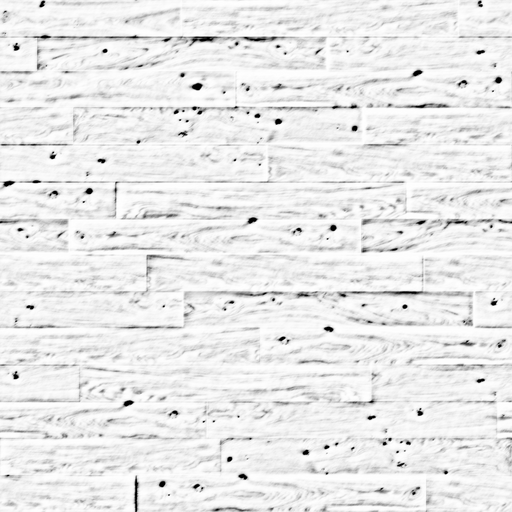
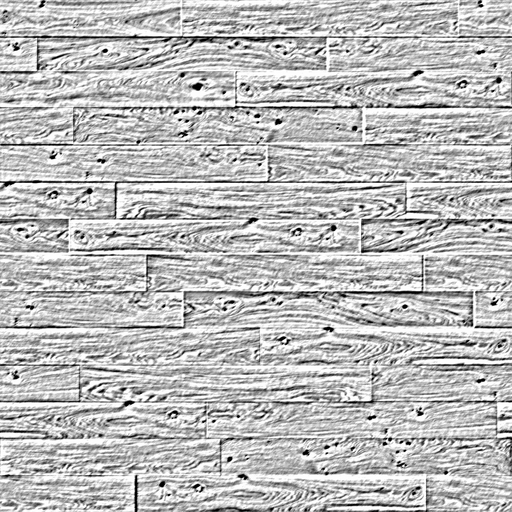
Working fragment lighting shader

diff --git a/engine/Component/Model.cpp b/engine/Component/Model.cpp
@@ -9,9 +9,6 @@
 //https://www.opengl.org/discussion_boards/showthread.php/163092-Passing-Multiple-Textures-from-OpenGL-to-GLSL-shader
 //https://en.wikibooks.org/wiki/OpenGL_Programming/Advanced/GLSL
 
-
-#define BUFFER_OFFSET(bytes) ((GLubyte*)NULL + (bytes))
-
 Model::Model(const std::string& meshSrc, const std::string& materialSrc, const std::string& shader){
 	_meshSrc = meshSrc;
 	_materialSrc = materialSrc;
@@ -28,17 +25,6 @@ void Model::load(){
 
 	if (_materialSrc != "")
 		_material = AssetLoader::getAsset<MaterialData>(_materialSrc);
-
-	//if (_mesh){
-	//	glEnableVertexAttribArray(0); // Positions
-	//	glVertexAttribPointer(_mesh->vertexBuffer, _mesh->vertexSize, GL_FLOAT, GL_FALSE, sizeof(float)* 3, BUFFER_OFFSET(0));
-	//	
-	//	glEnableVertexAttribArray(1); // Normals
-	//	glVertexAttribPointer(_mesh->vertexBuffer, _mesh->vertexSize, GL_FLOAT, GL_FALSE, sizeof(float)* 3, BUFFER_OFFSET(_mesh->vertexSize));
-	//	
-	//	glEnableVertexAttribArray(2); // Texcoords
-	//	glVertexAttribPointer(_mesh->vertexBuffer, _mesh->vertexSize, GL_FLOAT, GL_FALSE, sizeof(float)* 2, BUFFER_OFFSET(_mesh->vertexSize + _mesh->normalSize));
-	//}
 }
 
 void Model::setMesh(const MeshData* mesh){
@@ -63,13 +49,12 @@ void Model::render(){
 
 	// Scale based on Transform
 	glScalef(-_transform->scale().x, -_transform->scale().y, _transform->scale().z);
-
+	
 
 
 	GLuint program = Renderer::shaderManager().currentProgram();
 	Renderer::shaderManager().useProgram(_shader);
-
-
+	
 	if (_material){
 		// Diffuse binding
 		GLint diffuse = glGetUniformLocation(program, "uniform_diffuse");
@@ -77,8 +62,6 @@ void Model::render(){
 		if (_material->diffuse && diffuse != -1){
 			glActiveTexture(GL_TEXTURE0);
 			glBindTexture(GL_TEXTURE_2D, _material->diffuse);
-			//glBindSampler(_material->diffuse, diffuse);
-
 			Renderer::shaderManager().uniform(diffuse, 0);
 		}
 
@@ -88,8 +71,6 @@ void Model::render(){
 		if (_material->specular && specular != -1){
 			glActiveTexture(GL_TEXTURE1);
 			glBindTexture(GL_TEXTURE_2D, _material->specular);
-			//glBindSampler(_material->specular, specular);
-
 			Renderer::shaderManager().uniform(specular, 1);
 		}
 
@@ -99,16 +80,27 @@ void Model::render(){
 		if (_material->normal && normal != -1){
 			glActiveTexture(GL_TEXTURE2);
 			glBindTexture(GL_TEXTURE_2D, _material->normal);
-			//glBindSampler(_material->normal, normal);
-
 			Renderer::shaderManager().uniform(normal, 2);
 		}
+
+
+		Entity* entity = EntityManager::getEntity("player");
+
+		if (entity){
+			glm::vec3 directional = glm::normalize(entity->getComponent<Transform>()->position() - _transform->position());
+			Renderer::shaderManager().attribute("in_direction", directional);
+		}
+
+
+		//GLint light = glGetAttribLocation(program, "in_light");
+		//
+		//if (light != -1){
+		//	Renderer::shaderManager().uniform(light, glm::vec3(0, 0, 0));
+		//}
 	}
 	else{
 		glBindTexture(GL_TEXTURE_2D, 0);
 	}
-
-	
 
 	bool switched = false;
 
@@ -116,31 +108,19 @@ void Model::render(){
 		switched = true;
 		glDisable(GL_LIGHTING);
 	}
-	
-
-	//if (_material && _shader != "main"){
-	//	GLint diffuse = glGetUniformLocation(Renderer::shaderManager().currentProgram(), "uniform_diffuse");
-	//
-	//	Renderer::shaderManager().uniform(diffuse, _material->diffuse);
-	//
-	//	//Renderer::shaderManager()._glSimpleErrorCheck();
-	//}
-
-	//if (_shader == "main")
-	//	Renderer::shaderManager().uniform(0, glm::vec3(1, 1, 1));
 
 	draw();
 
 	glPopMatrix();
 
-	//glActiveTexture(GL_TEXTURE0);
-	//glBindSampler(GL_TEXTURE_2D, 0);
-	//
-	//glActiveTexture(GL_TEXTURE1);
-	//glBindSampler(GL_TEXTURE_2D, 0);
-	//
-	//glActiveTexture(GL_TEXTURE2);
-	//glBindSampler(GL_TEXTURE_2D, 0);
+	glActiveTexture(GL_TEXTURE0);
+	glBindTexture(GL_TEXTURE_2D, 0);
+	
+	glActiveTexture(GL_TEXTURE1);
+	glBindTexture(GL_TEXTURE_2D, 0);
+	
+	glActiveTexture(GL_TEXTURE2);
+	glBindTexture(GL_TEXTURE_2D, 0);
 
 	Renderer::shaderManager().useProgram(program);
 
@@ -164,8 +144,7 @@ void Model::draw(){
 		// Loading texture data
 		glEnableClientState(GL_TEXTURE_COORD_ARRAY);
 		glTexCoordPointer(2, GL_FLOAT, 2 * sizeof(float), (void*)(_mesh->vertexSize + _mesh->normalSize));
-
-
+		
 
 		GLuint program = Renderer::shaderManager().currentProgram();
 
@@ -173,9 +152,6 @@ void Model::draw(){
 		GLint normal = glGetAttribLocation(program, "in_normal"); 
 		GLint texcoord = glGetAttribLocation(program, "in_texcoord");
 			
-
-
-
 		if (position != -1){
 			glVertexAttribPointer(position, 3, GL_FLOAT, GL_FALSE, 3 * sizeof(float), 0);
 			glEnableVertexAttribArray(position); // Positions

diff --git a/game/Playing.cpp b/game/Playing.cpp
@@ -10,6 +10,7 @@
 #include "Movement.hpp"
 #include "Velocity.hpp"
 #include "Input.hpp"
+#include "Spin.hpp"
 
 #include <glm\vec3.hpp>
 
@@ -18,11 +19,12 @@ void Playing::on(){
 	origin->addComponent(new Grid(512, 8, 8, Grid::AxisZ));
 	
 	Entity* model = EntityManager::createEntity("model");
-	model->getComponent<Transform>()->setPosition(glm::vec3(0, 0, 0));
+	model->getComponent<Transform>()->setPosition(glm::vec3(-512, 512, -2));
 	model->getComponent<Transform>()->setScale(glm::vec3(2, 2, 2));
 	model->getComponent<Transform>()->setRotation(glm::quat(glm::vec3(glm::radians(180.f), 0, glm::radians(180.f))));
 	model->addComponent(new Model("star.obj", "star.png", "main"));
 	model->getComponent<Model>()->setUnlit(true);
+	model->addComponent(new Spin(0.35f));
 	
 	Entity* player = EntityManager::createEntity("player");
 	player->getComponent<Transform>()->setPosition(glm::vec3(-256, 0, -1024));
@@ -42,8 +44,9 @@ void Playing::on(){
 	box0->getComponent<Transform>()->setPosition(glm::vec3(512, 512, -2));
 	box0->getComponent<Transform>()->setRotation(glm::quat(glm::vec3(0, 0, glm::radians(10.f))));
 	box0->addComponent(new Box2d(68, 68));
+	box0->addComponent(new Spin(0.5f));
 
-	player->getComponent<Transform>()->setParent(box0->getComponent<Transform>());
+	//player->getComponent<Transform>()->setParent(box0->getComponent<Transform>());
 
 	EntityManager::invokeAll(Entity::TRIGGER_LOAD);
 }

diff --git a/engine/Static/Module/ShaderManager.cpp b/engine/Static/Module/ShaderManager.cpp
@@ -183,8 +183,7 @@ GLint ShaderManager::_indexUniform(const std::string& name){
 	GLint value = glGetUniformLocation(_activeProgram, name.c_str());
 
 	if (value == -1){
-		_glSimpleErrorCheck();
-		error_out(("No such uniform called " + name + ".\n").c_str());
+		message_out(("Uniform " + name + " == -1.\n").c_str());
 	}
 
 	return value;
@@ -194,8 +193,7 @@ GLint ShaderManager::_indexAttribute(const std::string& name){
 	GLint value = glGetAttribLocation(_activeProgram, name.c_str());
 
 	if (value == -1){
-		_glSimpleErrorCheck();
-		error_out(("No such attribute called " + name + ".\n").c_str());
+		//message_out(("Attribute " + name + " == -1.\n").c_str());
 	}
 
 	return value;

diff --git a/engine/Static/Renderer.cpp b/engine/Static/Renderer.cpp
@@ -75,11 +75,11 @@ bool Renderer::_setupGL(){
 
 	// OpenGl settings
 	//glEnable(GL_TEXTURE_2D);
-	//glEnable(GL_DEPTH_TEST);
+	glEnable(GL_DEPTH_TEST);
 	//glEnable(GL_LIGHTING);
 	//glEnable(GL_COLOR_MATERIAL);
 	//glEnable(GL_CULL_FACE);
-	//glEnable(GL_ALPHA_TEST);
+	glEnable(GL_ALPHA_TEST);
 	//glEnable(GL_SCISSOR_TEST);
 	//glEnable(GL_FOG);
 

diff --git a/game/Spin.cpp b/game/Spin.cpp
@@ -1,0 +1,13 @@
+#include "Spin.hpp"
+
+Spin::Spin(float speed){
+	_speed = speed;
+}
+
+void Spin::load(){
+	_transform = getComponent<Transform>();
+}
+
+void Spin::update(double dt){
+	_transform->localRotate(glm::quat(glm::vec3(0, 0, (float)(_speed * dt))));
+}

diff --git a/game/Spin.hpp b/game/Spin.hpp
@@ -1,0 +1,15 @@
+#pragma once
+
+#include <Entity\HelperComponent.hpp>
+
+class Spin : public HelperComponent{
+	Transform* _transform = 0;
+
+	float _speed;
+
+public:
+	Spin(float speed);
+
+	void load();
+	void update(double dt);
+};
